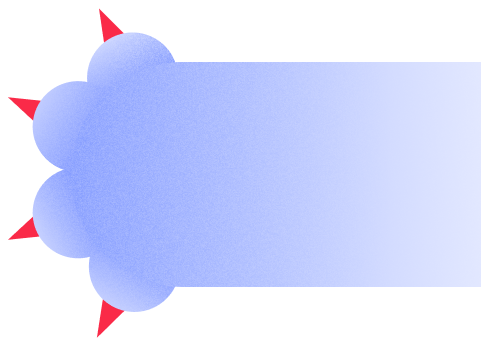
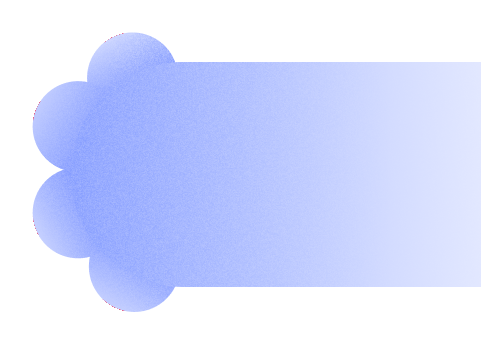
fix(profi,stemps): review feedback
profi: crop white title strip on iteration-2 dark section (title now on
black), restore responsive лапка + strip-to-edge continuation, add bottom
padding; clean red vector-export artifacts from лапка
stemps: hypotheses section reflowed to Figma scatter (5 cards + 2 shots +
curved connector arrows), add conclusion bottom padding

diff --git a/src/pages/stemps/stemps-page.tsx b/src/pages/stemps/stemps-page.tsx
@@ -193,39 +193,120 @@ export default function StempsPage() {
         </Content>
       </div>
 
-      {/* Гипотезы — screenshots + cards */}
-      <section className="w-full bg-[var(--stemps-section-bg)] py-[64px] max-lg:py-[40px]">
-        <Content className="flex flex-col gap-[32px]">
-          <div className="flex gap-[24px] max-lg:flex-col">
+      {/* Гипотезы — screenshots + scattered cards + connector arrows */}
+      <section className="w-full bg-[var(--stemps-section-bg)] py-[64px] max-lg:py-[40px] overflow-x-clip">
+        {/* Desktop: scattered layout with curved connectors (positions from Figma) */}
+        <div className="hidden lg:block w-full max-w-[1440px] mx-auto">
+          <div className="relative w-full aspect-[1440/850]">
+            {/* Connector arrows */}
+            <svg
+              viewBox="0 0 1440 850"
+              fill="none"
+              className="absolute inset-0 w-full h-full pointer-events-none"
+              aria-hidden="true"
+            >
+              <defs>
+                <marker
+                  id="hyp-arrow"
+                  viewBox="0 0 10 10"
+                  refX="8"
+                  refY="5"
+                  markerWidth="6"
+                  markerHeight="6"
+                  orient="auto-start-reverse"
+                >
+                  <path d="M0,0 L10,5 L0,10" fill="none" stroke="#333333" strokeWidth="1.5" />
+                </marker>
+              </defs>
+              <g stroke="#333333" strokeWidth="1.5" markerEnd="url(#hyp-arrow)">
+                {/* №3 top-left → editor */}
+                <path d="M322,120 C382,120 372,178 452,200" />
+                {/* №1 left → courses */}
+                <path d="M278,332 C362,332 402,384 470,404" />
+                {/* №5 top-right → editor */}
+                <path d="M1296,232 C1198,232 1176,282 1062,288" />
+                {/* №2 right → editor */}
+                <path d="M1298,556 C1182,556 1150,500 1068,482" />
+                {/* №4 bottom → courses */}
+                <path d="M858,600 C806,562 786,540 762,516" />
+              </g>
+            </svg>
+
+            {/* Screenshots */}
             <img
               src={hypothesisImages.editor}
               alt="Редактор конструктора курсов"
               loading="lazy"
-              className="w-[62%] max-lg:w-full h-auto rounded-[10px] self-start"
+              className="absolute rounded-[10px] shadow-[0_8px_24px_rgba(0,0,0,0.08)]"
+              style={{ left: "26.04%", top: "11.3%", width: "47.9%" }}
             />
             <img
               src={hypothesisImages.courses}
               alt="Каталог курсов"
               loading="lazy"
-              className="w-[38%] max-lg:w-full h-auto rounded-[10px] self-end max-lg:self-auto"
+              className="absolute rounded-[10px] shadow-[0_8px_24px_rgba(0,0,0,0.08)]"
+              style={{ left: "12.2%", top: "42.8%", width: "29.9%" }}
             />
+
+            {/* Cards */}
+            {hypotheses.map((h, i) => {
+              const pos = [
+                { left: "3.96%", top: "30.1%" }, // №1 left
+                { left: "80%", top: "56.7%" }, // №2 right
+                { left: "7.5%", top: "3.8%" }, // №3 top-left
+                { left: "52.8%", top: "69.2%" }, // №4 bottom
+                { left: "80.3%", top: "14.9%" }, // №5 top-right
+              ][i];
+              return (
+                <div
+                  key={i}
+                  className="absolute bg-[var(--stemps-card-bg)] rounded-[10px] p-[20px] flex flex-col gap-[12px]"
+                  style={{ left: pos.left, top: pos.top, width: "15.07%" }}
+                >
+                  <span className="text-[14px] font-medium text-[var(--stemps-accent)]">
+                    {h.label}
+                  </span>
+                  <p className="text-[14px] text-neutral-900 leading-[1.3]">
+                    {h.text}
+                  </p>
+                </div>
+              );
+            })}
           </div>
-          <div className="grid grid-cols-3 gap-[12px] max-lg:grid-cols-1">
-            {hypotheses.map((h, i) => (
-              <div
-                key={i}
-                className="bg-white rounded-[10px] p-[20px] flex flex-col gap-[12px]"
-              >
-                <span className="text-[14px] font-medium text-[var(--stemps-accent)]">
-                  {h.label}
-                </span>
-                <p className="text-[14px] text-neutral-900 leading-[1.3]">
-                  {h.text}
-                </p>
-              </div>
-            ))}
-          </div>
-        </Content>
+        </div>
+
+        {/* Mobile / tablet: screenshots stacked + cards column */}
+        <div className="lg:hidden">
+          <Content className="flex flex-col gap-[24px]">
+            <img
+              src={hypothesisImages.editor}
+              alt="Редактор конструктора курсов"
+              loading="lazy"
+              className="w-full h-auto rounded-[10px]"
+            />
+            <img
+              src={hypothesisImages.courses}
+              alt="Каталог курсов"
+              loading="lazy"
+              className="w-[70%] h-auto rounded-[10px]"
+            />
+            <div className="flex flex-col gap-[12px]">
+              {hypotheses.map((h, i) => (
+                <div
+                  key={i}
+                  className="bg-[var(--stemps-card-bg)] rounded-[10px] p-[20px] flex flex-col gap-[12px]"
+                >
+                  <span className="text-[14px] font-medium text-[var(--stemps-accent)]">
+                    {h.label}
+                  </span>
+                  <p className="text-[14px] text-neutral-900 leading-[1.3]">
+                    {h.text}
+                  </p>
+                </div>
+              ))}
+            </div>
+          </Content>
+        </div>
       </section>
 
       {/* Video intro text */}
@@ -301,13 +382,13 @@ export default function StempsPage() {
       </div>
 
       {/* Conclusion card + blob + footer */}
-      <section className="relative w-full">
+      <section className="relative w-full pb-[70px] max-lg:pb-[40px] overflow-x-clip">
         <img
           src={blob}
           alt=""
           role="presentation"
           loading="lazy"
-          className="absolute right-[calc((100vw-min(100vw,1440px))/2+24px)] top-[24px] w-[280px] h-auto pointer-events-none max-lg:hidden"
+          className="absolute right-[calc((100vw-min(100vw,1440px))/2+24px)] top-[40px] w-[240px] h-auto pointer-events-none max-lg:hidden"
           onError={(e) => {
             e.currentTarget.style.display = "none";
           }}

diff --git a/src/pages/profi/profi-page.tsx b/src/pages/profi/profi-page.tsx
@@ -261,16 +261,35 @@ export default function ProfiPage() {
       </div>
 
       {/* Second iteration — final interface */}
-      <SectionImage src={iteration2} alt="Вторая итерация — итоговый интерфейс" />
+      <section className="w-full bg-profi-dark-bg pt-[32px]">
+        <div className="w-full max-w-[1440px] mx-auto">
+          <p className="text-center text-[14px] text-white/70 leading-[1.2] px-[24px] mb-[8px]">
+            2 итерация. Обновлённый интерфейс. Запуск в прод
+          </p>
+          <img
+            src={iteration2}
+            alt="Вторая итерация — итоговый интерфейс"
+            loading="lazy"
+            className="w-full h-auto"
+          />
+        </div>
+      </section>
 
       {/* Conclusion card + blob + footer */}
-      <section className="relative w-full pt-[64px] max-lg:pt-[40px]">
+      <section className="relative w-full pt-[64px] pb-[70px] max-lg:pt-[40px] max-lg:pb-[40px] overflow-x-clip">
+        {/* Strip continuation — bleeds the лапка's strip to the viewport right edge */}
+        <div
+          aria-hidden="true"
+          className="absolute right-0 bottom-[158px] h-[139px] w-[max(24px,calc(50vw-696px))] pointer-events-none max-lg:hidden"
+          style={{ background: "linear-gradient(90deg,#E0E6FF,#EEF1FF)" }}
+        />
+        {/* Decorative лапка — anchored to the content-box right edge, bottom */}
         <img
           src={blob}
           alt=""
           role="presentation"
           loading="lazy"
-          className="absolute right-[calc((100vw-min(100vw,1440px))/2+24px)] top-[80px] w-[300px] h-auto pointer-events-none max-lg:hidden"
+          className="absolute right-[calc((100vw-min(100vw,1440px))/2+24px)] bottom-[120px] w-[300px] h-auto pointer-events-none max-lg:hidden"
           onError={(e) => {
             e.currentTarget.style.display = "none";
           }}
